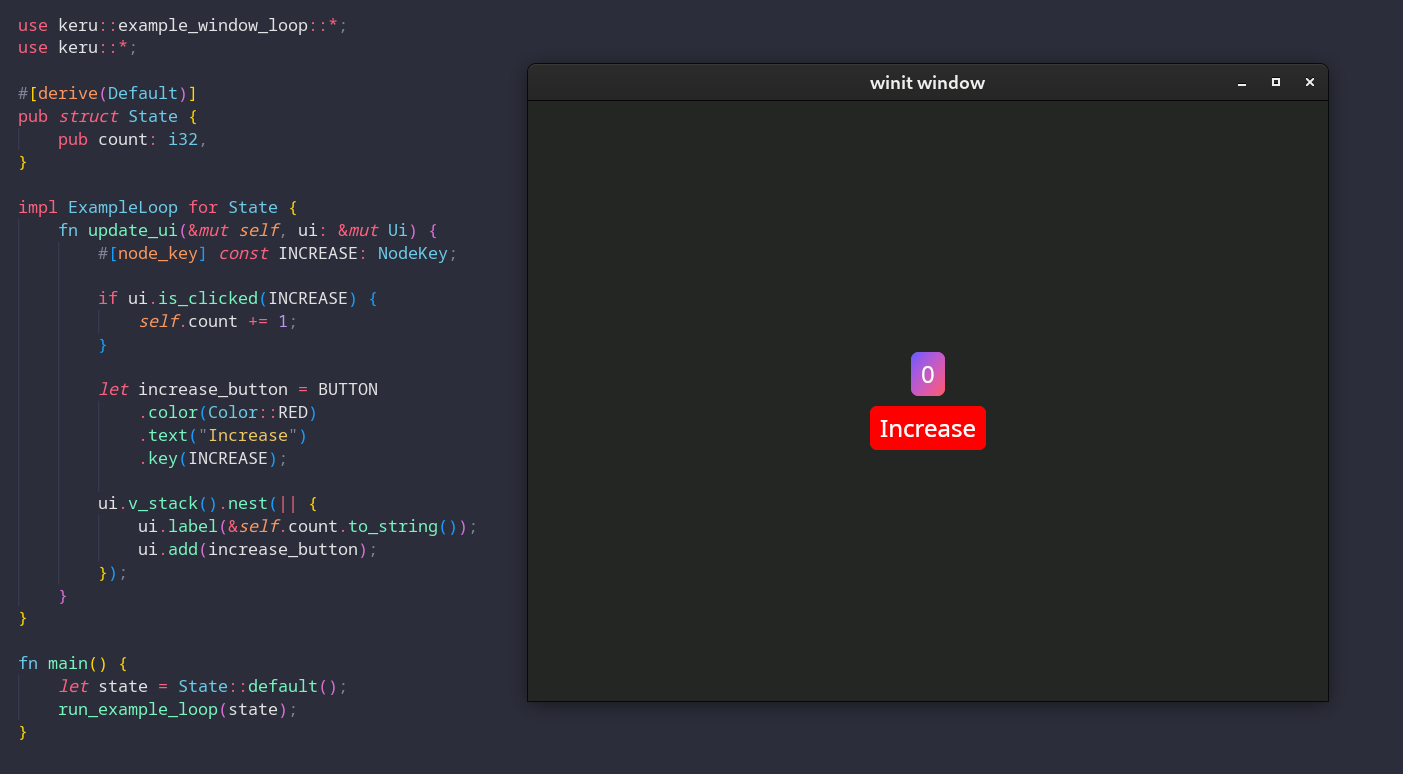
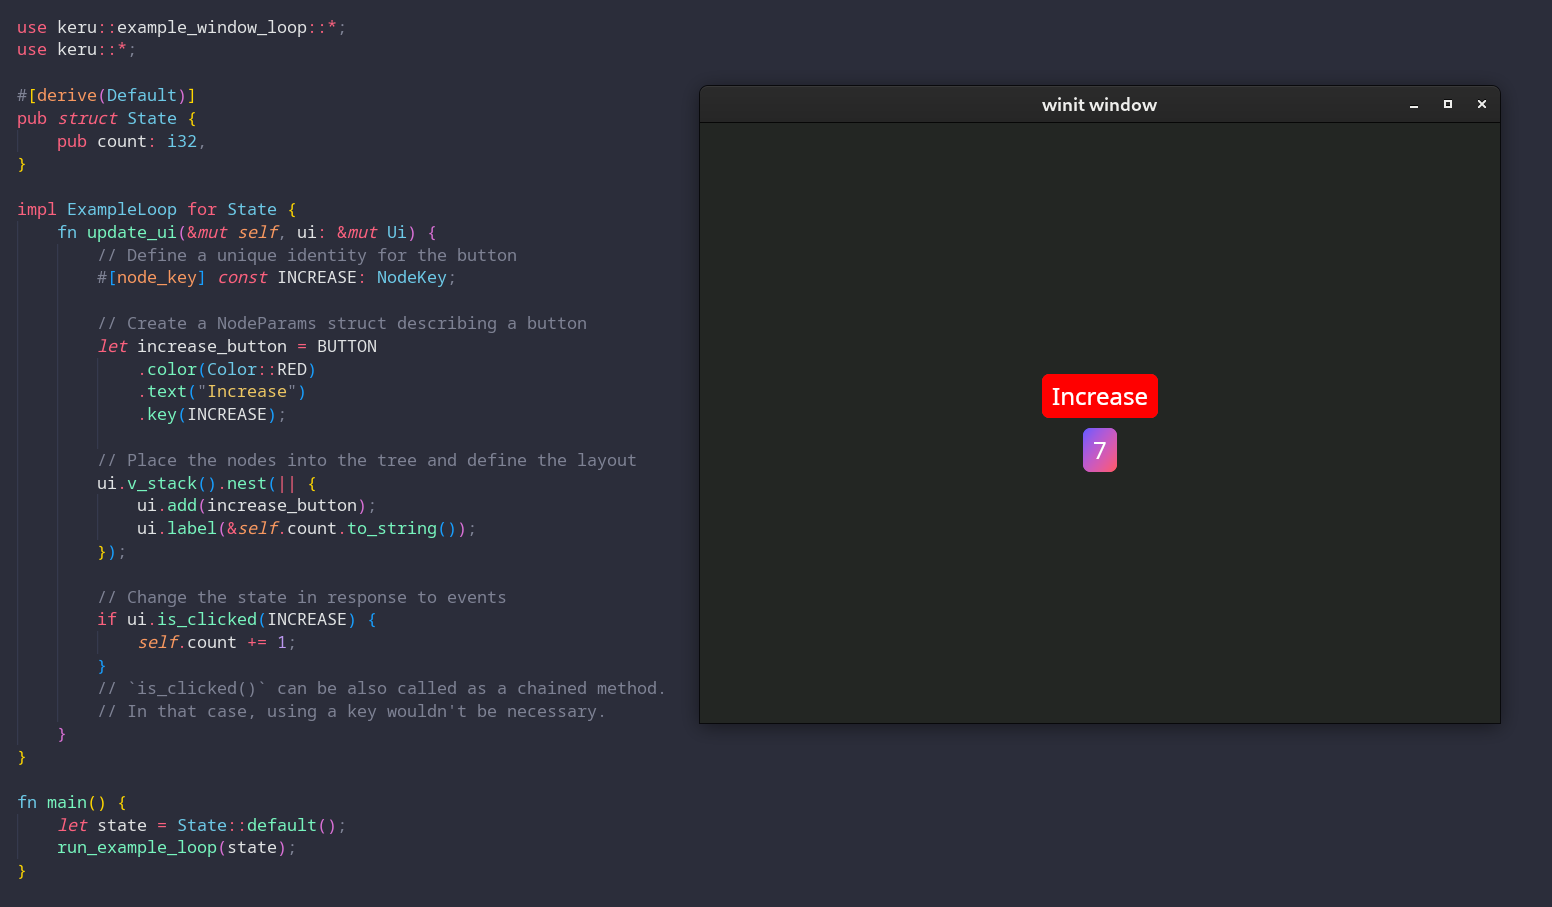
readme

diff --git a/examples/counter_small.rs b/examples/counter_small.rs
@@ -10,21 +10,27 @@ pub struct State {
 
 impl ExampleLoop for State {
     fn update_ui(&mut self, ui: &mut Ui) {
+        // Define a unique identity for the button
         #[node_key] const INCREASE: NodeKey;
-
-        if ui.is_clicked(INCREASE) {
-            self.count += 1;
-        }
-
+        
+        // Create a NodeParams struct describing a button
         let increase_button = BUTTON
             .color(Color::RED)
             .text("Increase")
             .key(INCREASE);
-
+    
+        // Place the nodes into the tree and define the layout
         ui.v_stack().nest(|| {
-            ui.label(&self.count.to_string());
             ui.add(increase_button);
+            ui.label(&self.count.to_string());
         });
+
+        // Change the state in response to events
+        if ui.is_clicked(INCREASE) {
+            self.count += 1;
+        }
+        // `is_clicked()` can be also called as a chained method.
+        // In that case, using a key wouldn't be necessary.
     }
 }
 

diff --git a/README.md b/README.md
@@ -7,34 +7,6 @@ The goal of the library is to be as easy to use as immediate mode libraries (and
 
 See the [docs for the master branch](https://kekelp.github.io/keru/keru/index.html) for more information.
 
-## Code Example
-
-```rust
-// Define a unique identity for this button
-#[node_key] const INCREASE: NodeKey;
-
-// Create a NodeParams struct describing a button
-let increase_button = BUTTON
-    .color(Color::RED)
-    .text("Increase")
-    .key(INCREASE);
-
-// Place the nodes into the tree and define the layout
-ui.v_stack().nest(|| {
-    if self.show {
-        ui.add(increase_button);
-        ui.label(&self.count); // This one doesn't need a key.
-    }
-});
-
-// Run code in response to events
-if ui.is_clicked(INCREASE) {
-    self.count += 1;
-}
-// `is_clicked()` can be also called as a chained method after `ui.add(increase_button)`.
-// In that case, using a key is not necessary.
-```
-
 ## Screenshots
 
 A simple counter and the code that generates it. Implementing `ExampleLoop` is needed to use the `run_example_loop` helper, but the normal way to use Keru is from a user-managed `winit`/`wgpu` loop. 
